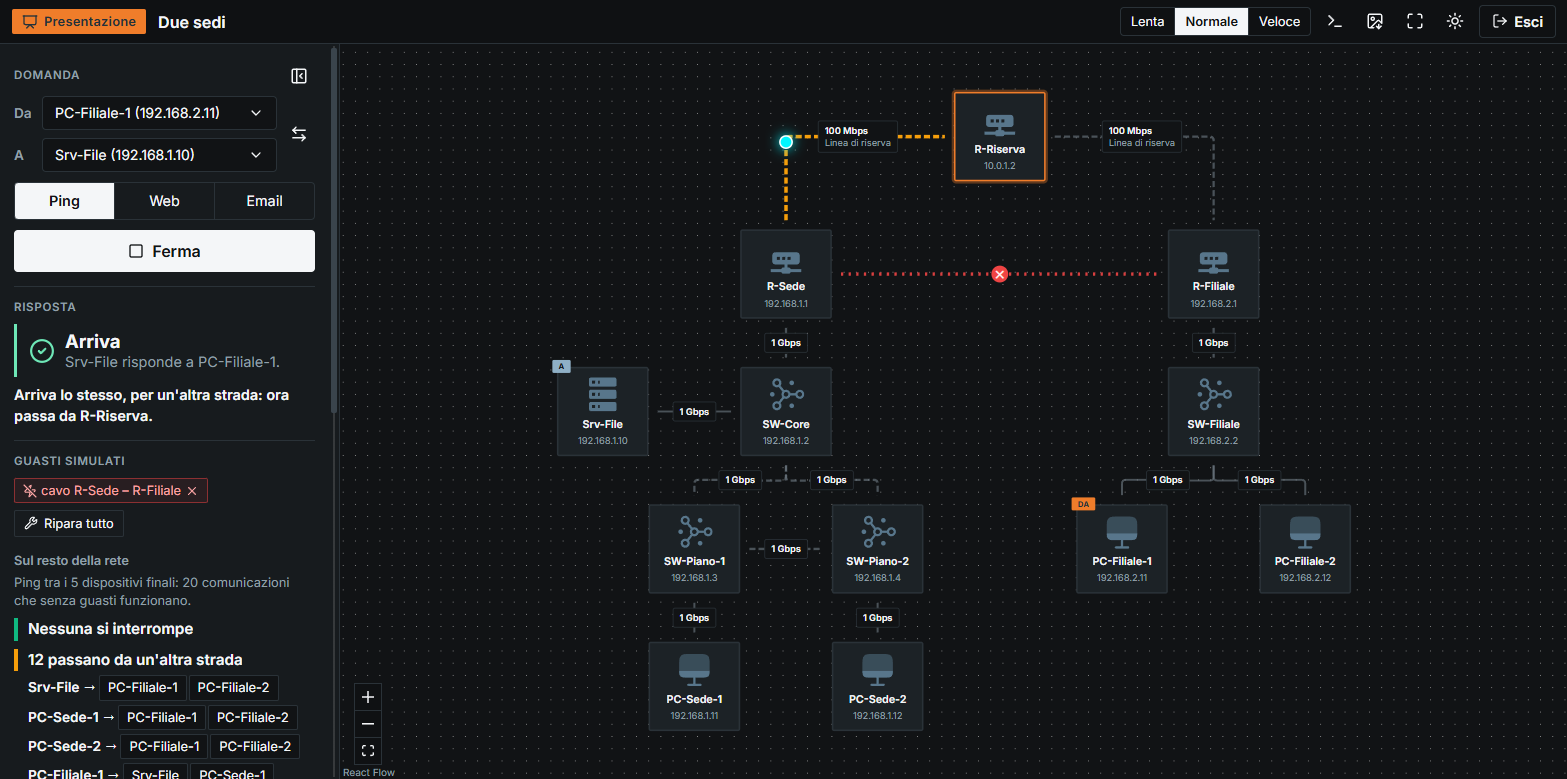
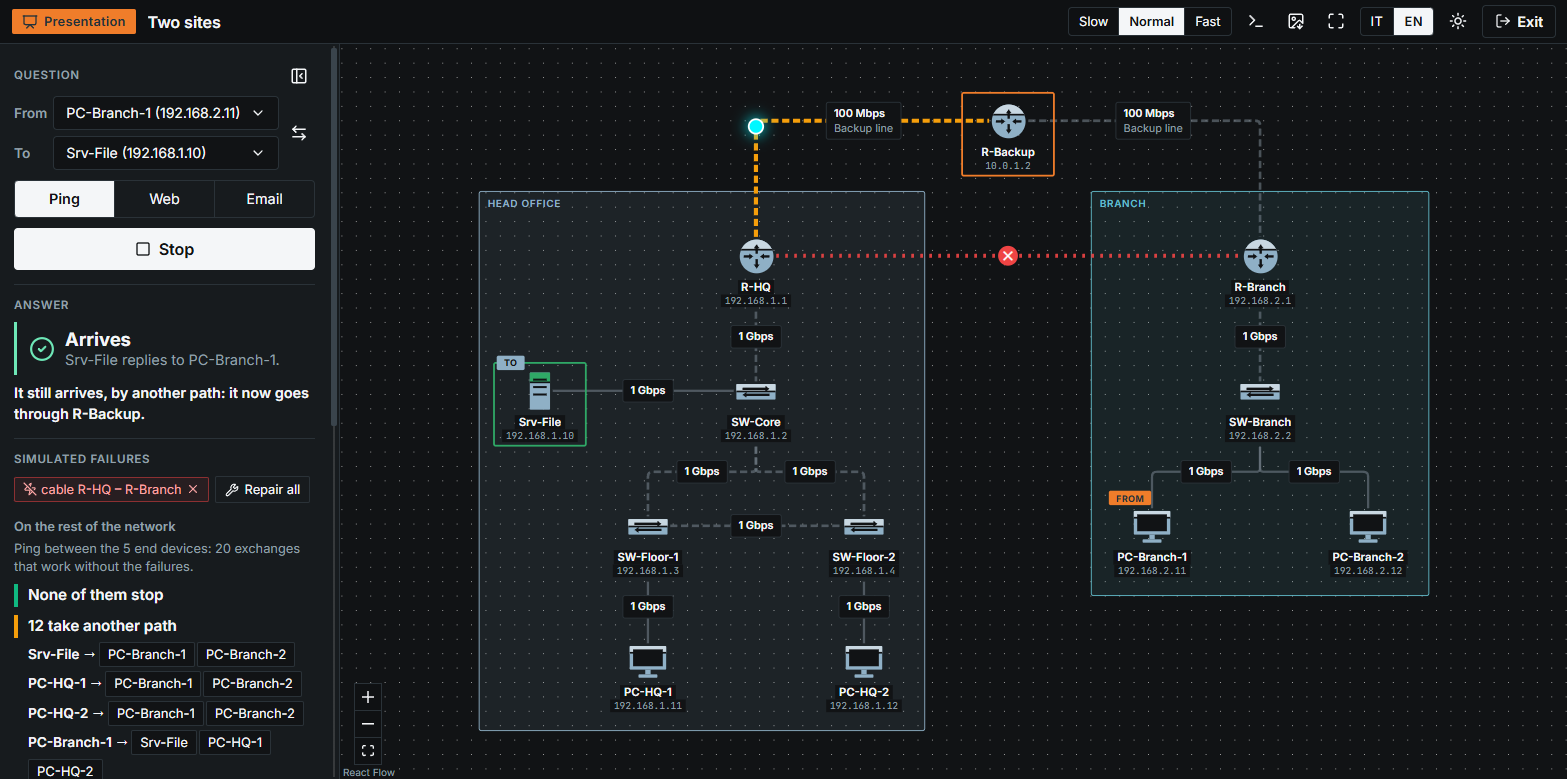
The site follows the app: the drawings of the devices, two languages
The four pictures of the app are taken again from the new version, in
English, light and dark: the devices are drawn with their own drawings
and the samples are laid out for them. The terminal session on the home
page uses the names of the English sample, word for word as the app
prints them. The footer says the interface is in English and in
Italian, and the lists name the areas and the note of a device.

diff --git a/index.html b/index.html
@@ -161,6 +161,7 @@
                         <li>Firewall zones and ordered rules</li>
                         <li>NAT towards the Internet, and port forwards for what is reached from it</li>
                         <li>DHCP for what takes its address by itself, DNS to call a device by name</li>
+                        <li>Named areas behind groups of devices, and a note on any device</li>
                     </ul>
                 </div>
                 <div class="verb-drawing">
@@ -258,20 +259,20 @@
                     <!-- /drawing:ask -->
                 </div>
                 <figure class="wide">
-<div class="terminal"><span class="prompt">pixelcake&gt;</span> <span class="cmd">trace Portale-Clienti from Cliente-Remoto as web</span>
-Tracing route to Portale-Clienti (203.0.113.1) from Cliente-Remoto as web:
-  1  ○ Cliente-Remoto (PC)
+<div class="terminal"><span class="prompt">pixelcake&gt;</span> <span class="cmd">trace Customer-Portal from Remote-Customer as web</span>
+Tracing route to Customer-Portal (203.0.113.1) from Remote-Customer as web:
+  1  ○ Remote-Customer (PC)
   2  ○ Internet (Cloud)  <span class="dim">— Internet is not simulated: traffic assumed to pass</span>
   3  ○ FW-Edge (Firewall)  <span class="dim">— NAT: destination 203.0.113.1 → 172.16.0.10 (port forward 1); routed: 172.16.0.0/24 is on port 2; firewall FW-Edge: allowed by rule 1 (allow web from untrust to 172.16.0.10)</span>
   4  ○ SW-DMZ (Switch)
-  5  ● Portale-Clienti (Server)
-<span class="dim">  note: Portale-Clienti is behind NAT: reached at 203.0.113.1, where FW-Edge publishes it (port forward 1)
+  5  ● Customer-Portal (Server)
+<span class="dim">  note: Customer-Portal is behind NAT: reached at 203.0.113.1, where FW-Edge publishes it (port forward 1)
   note: Internet is not simulated: traffic assumed to pass
   note: firewall FW-Edge: allowed by rule 1 (allow web from untrust to 172.16.0.10)</span>
 <span class="good">Trace complete: destination reached.</span>
 
-<span class="prompt">pixelcake&gt;</span> <span class="cmd">ping Portale-Clienti from Cliente-Remoto</span>
-Pinging Portale-Clienti (172.16.0.10) from Cliente-Remoto...
+<span class="prompt">pixelcake&gt;</span> <span class="cmd">ping Customer-Portal from Remote-Customer</span>
+Pinging Customer-Portal (172.16.0.10) from Remote-Customer...
 <span class="bad">Ping failed (blocked): request: Internet does not carry private addresses: 172.16.0.10 is not reachable from outside: no port forward publishes it for ping
   dropped at: Internet</span></div>
                     <figcaption>
@@ -357,9 +358,9 @@ Pinging Portale-Clienti (172.16.0.10) from Cliente-Remoto...
                 <figure class="wide">
                     <div class="shot">
                         <img class="only-light" src="./assets/present.png" width="1567" height="779" loading="lazy"
-                            alt="Presentation mode on a network of two sites: the main line between them is cut, the answer still arrives through the backup router, and the panel lists which exchanges take another way.">
+                            alt="Presentation mode on a network of two sites: the main line between them is cut, the answer still arrives through the backup router, and the panel lists which exchanges take another path.">
                         <img class="only-dark" src="./assets/present-dark.png" width="1567" height="779" loading="lazy"
-                            alt="Presentation mode on a network of two sites: the main line between them is cut, the answer still arrives through the backup router, and the panel lists which exchanges take another way.">
+                            alt="Presentation mode on a network of two sites: the main line between them is cut, the answer still arrives through the backup router, and the panel lists which exchanges take another path.">
                     </div>
                     <figcaption>
                         <b>Present.</b>
@@ -454,7 +455,7 @@ Pinging Portale-Clienti (172.16.0.10) from Cliente-Remoto...
             </div>
             <div class="col">
                 <span class="label">Language</span>
-                The interface is in Italian for now. The terminal speaks English.
+                The interface is in English and in Italian, one click apart. The terminal speaks English.
             </div>
         </footer>
     </div>

diff --git a/why.html b/why.html
@@ -186,8 +186,8 @@
                                 <th scope="row">Design</th>
                                 <td class="state">works</td>
                                 <td>Devices, links, ports and network cards, with their addresses, VLANs, routes,
-                                    firewall rules, NAT, DHCP and DNS. Several boards per project, saved as a file
-                                    you keep.</td>
+                                    firewall rules, NAT, DHCP and DNS, grouped in named areas. Several boards per
+                                    project, saved as a file you keep.</td>
                             </tr>
                             <tr>
                                 <th scope="row">Ask</th>
@@ -251,7 +251,7 @@
             </div>
             <div class="col">
                 <span class="label">Language</span>
-                The interface is in Italian for now. The terminal speaks English.
+                The interface is in English and in Italian, one click apart. The terminal speaks English.
             </div>
         </footer>
     </div>
